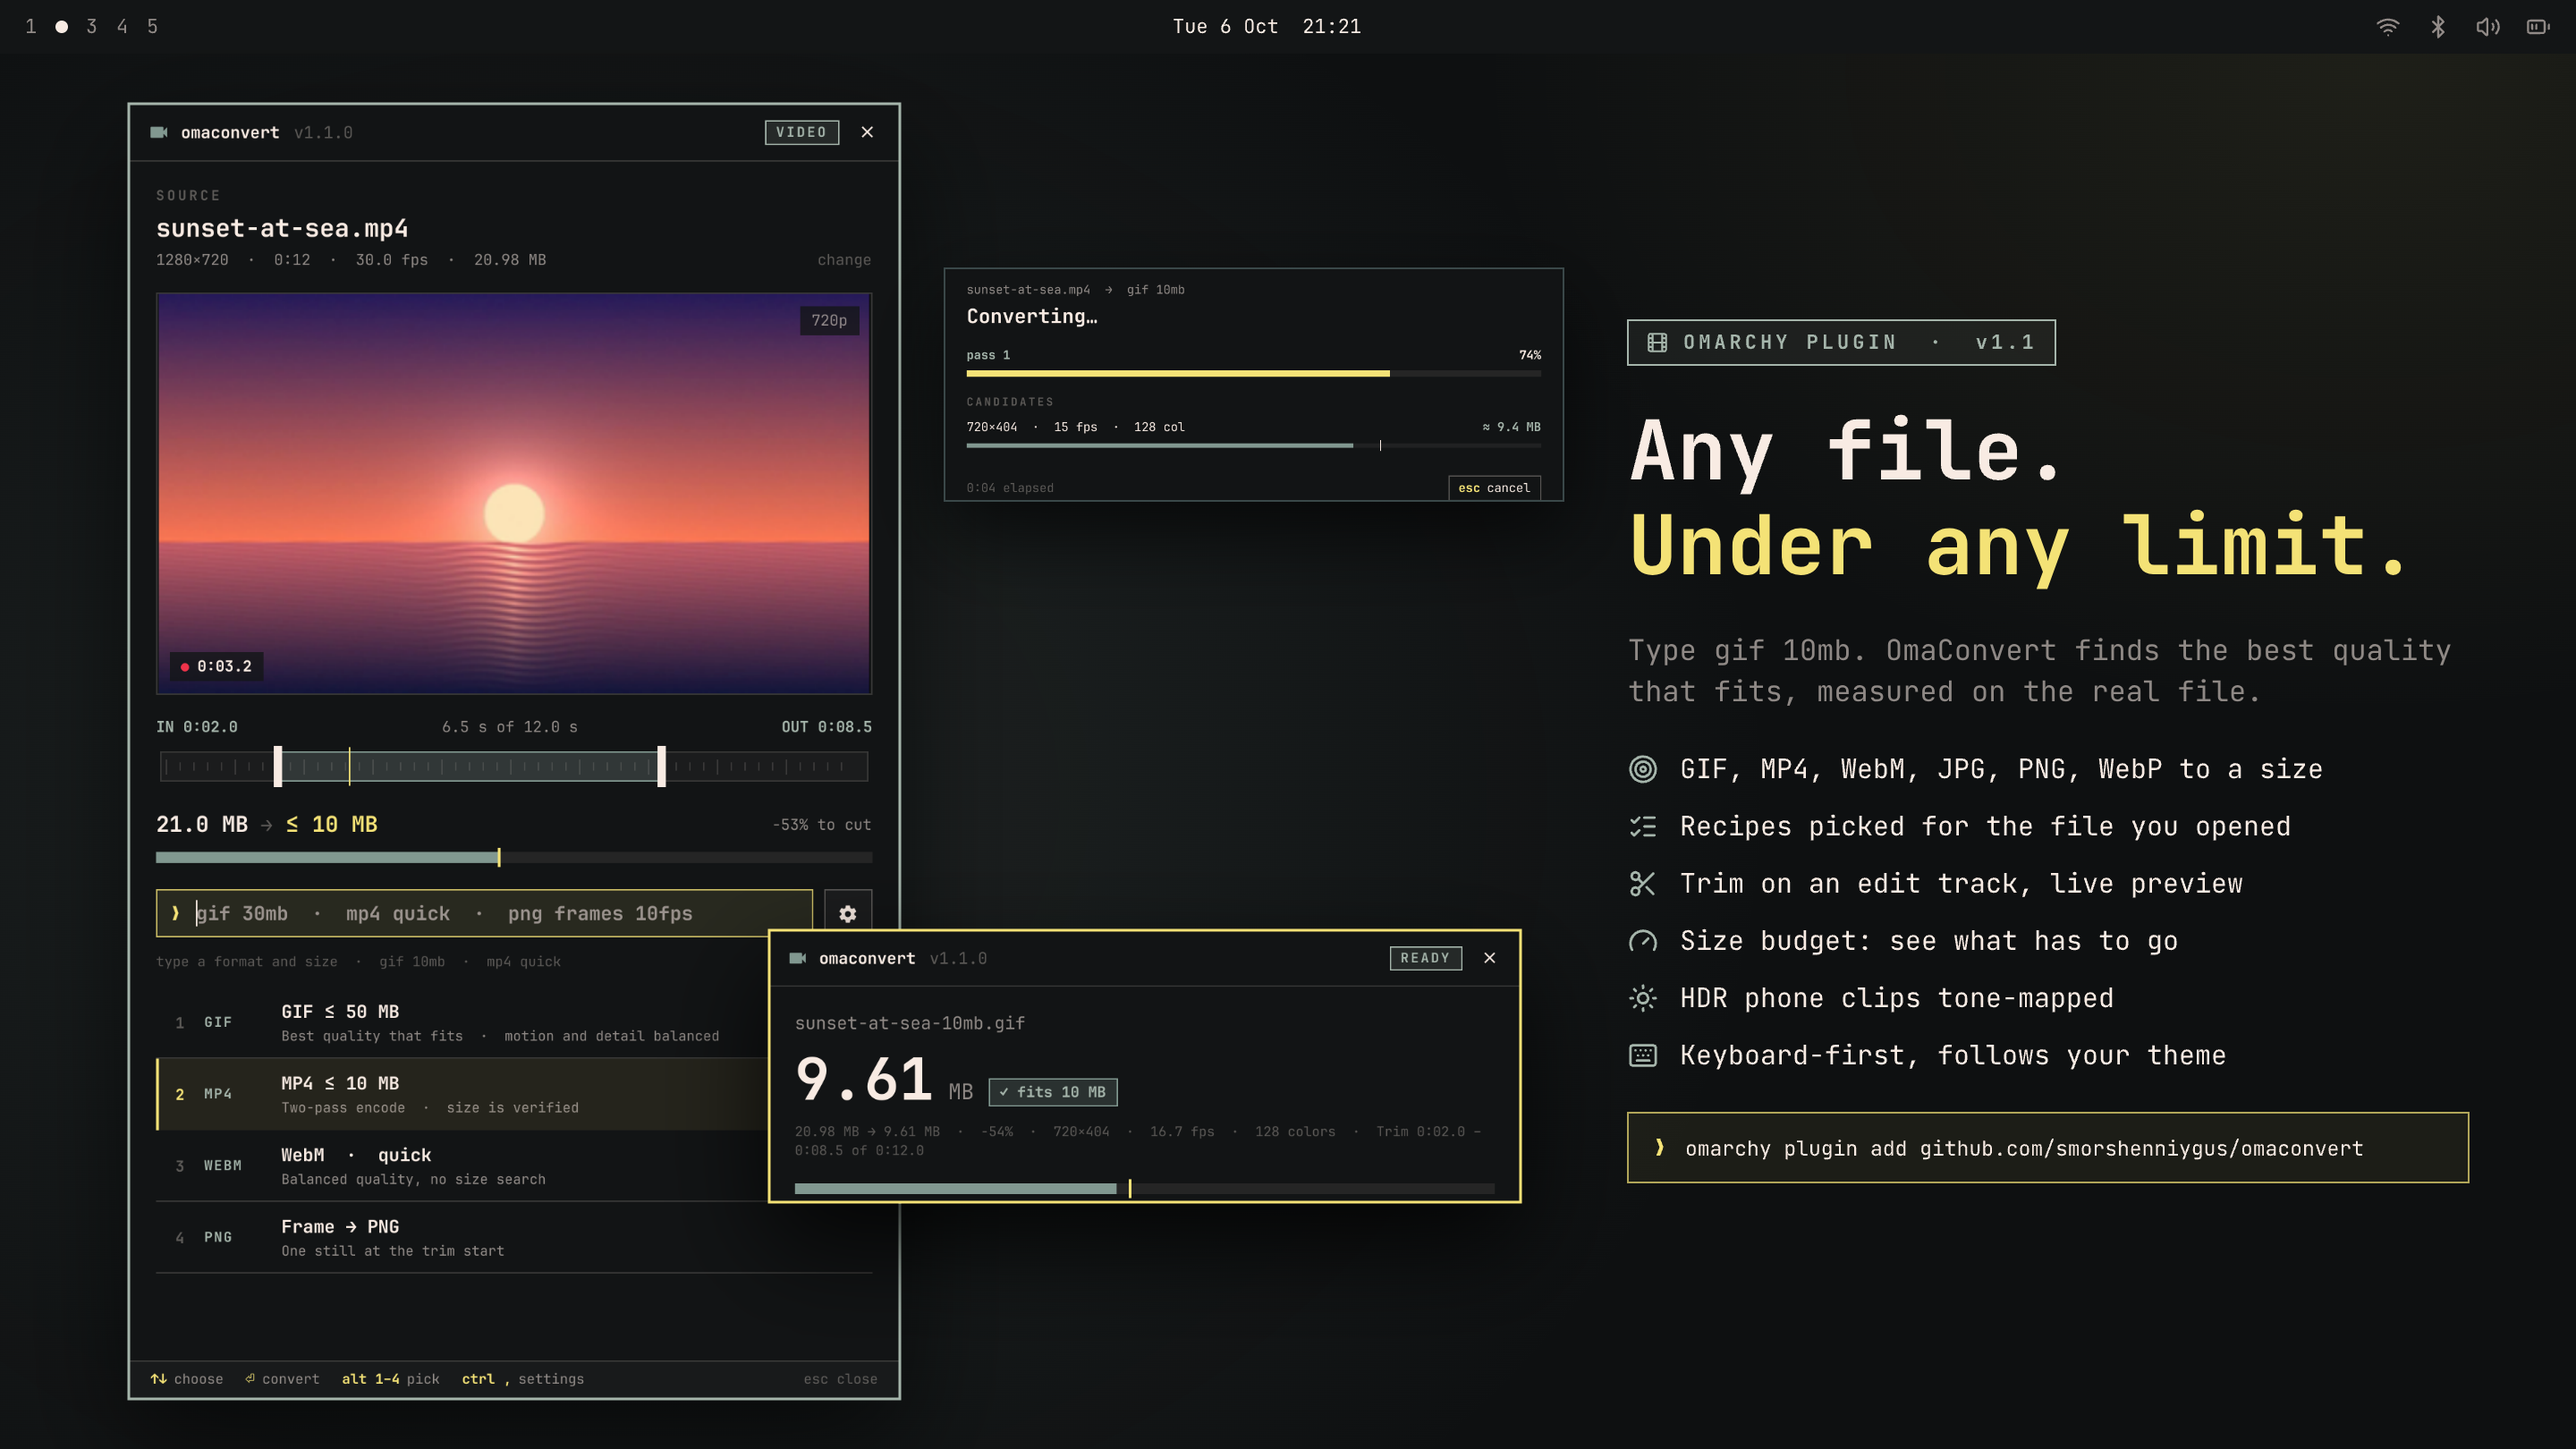
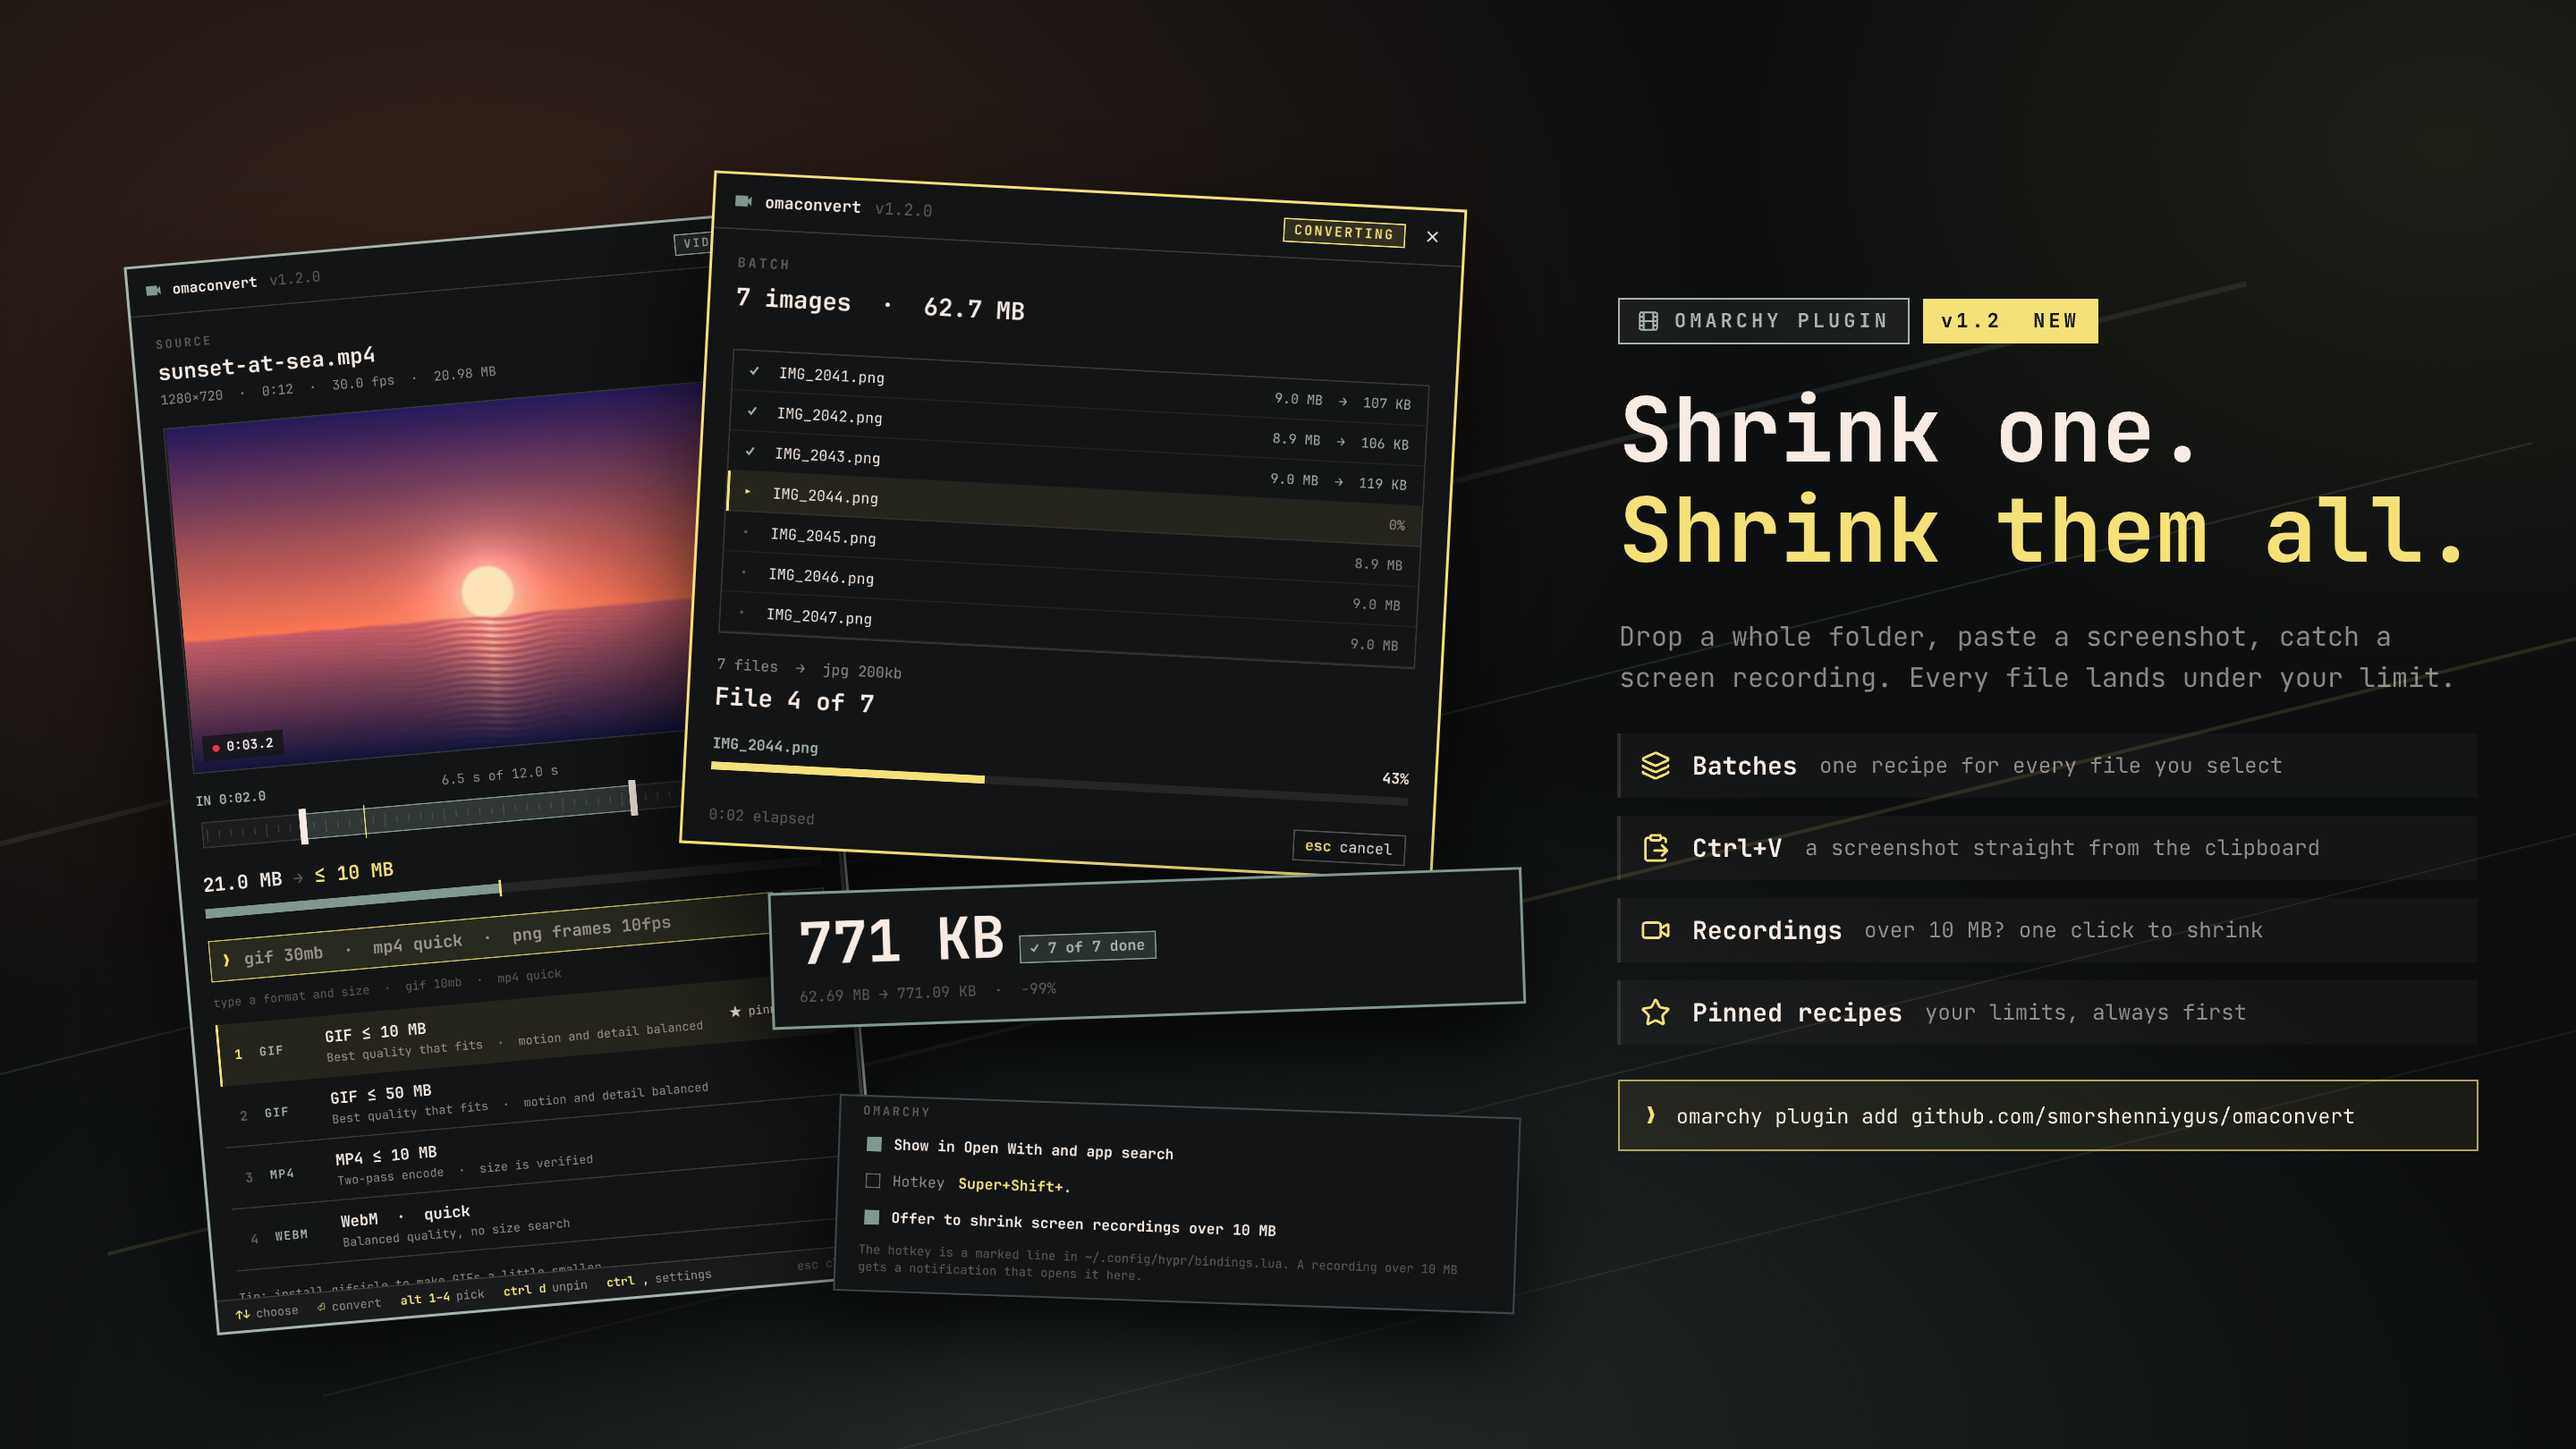
release: 1.2.0 - batches, pinned recipes, Omarchy integration, new preview

diff --git a/services/Model.js b/services/Model.js
@@ -3,7 +3,7 @@
 // Version of the loaded interface. Kept equal to manifest.json and
 // lib/__init__.py by tests/test_version.py; compared at runtime with the
 // backend version to detect a shell still running stale cached QML.
-var VERSION = "1.1.0"
+var VERSION = "1.2.0"
 // Fallback when the host does not inject `manifest`; equal to manifest.json.
 var PLUGIN_ID = "io.github.smorshenniygus.omaconvert"
 

diff --git a/lib/__init__.py b/lib/__init__.py
@@ -1,4 +1,4 @@
 """OmaConvert backend package."""
 
 # Keep in sync with manifest.json and services/Model.js (tests/test_version.py).
-__version__ = "1.1.0"
+__version__ = "1.2.0"
